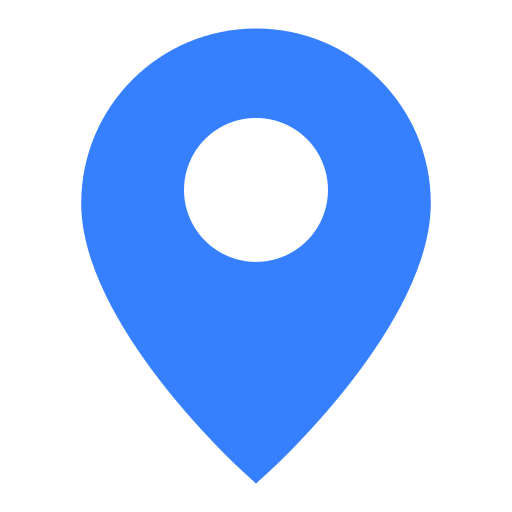
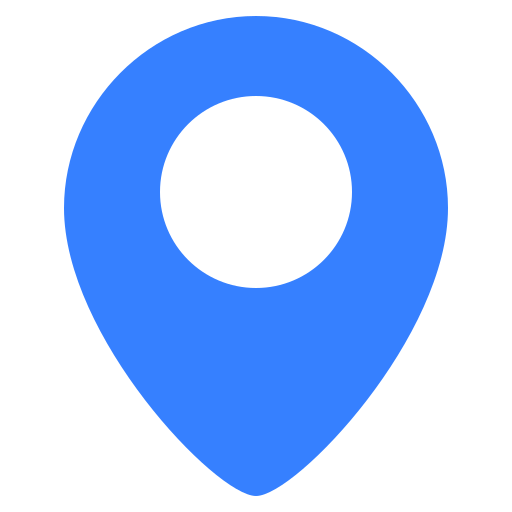
1. used consistent marker design with varying color. 2. additional color if additional chart. 3. NRT chart color and map marker made same.

Changed region(s): [[0.125, 0.0312, 0.875, 0.9688], [0.3125, 0.1875, 0.6875, 0.5625]]

diff --git a/noaa-cpfp-point/src/chart/helper/index.js b/noaa-cpfp-point/src/chart/helper/index.js
@@ -42,6 +42,16 @@ const chartStyles = [
         hoverBorderWidth: 3,
         spanGaps: true,
         showLine: true,
+    },
+    {
+        type: "line",
+        borderColor: "purple",
+        pointHoverBackgroundColor: "rgba(226, 118, 255, 0.8)", // purple
+        pointHoverBorderColor: "rgba(226, 118, 255, 1)",
+        borderWidth: 2,
+        hoverBorderWidth: 3,
+        spanGaps: true,
+        showLine: true,
     }
 ]
 

diff --git a/noaa-cpfp-point/src/marker/meta.js b/noaa-cpfp-point/src/marker/meta.js
@@ -44,7 +44,7 @@ export const legendsDictionary = {
     },
     [NRT]: {
         color: "red",
-        className: "marker marker-red",
+        className: "marker marker-unique",
         text: "NRT (Near Real Time) Measurements"
     },
 };

diff --git a/noaa-cpfp-point/style.css b/noaa-cpfp-point/style.css
@@ -126,6 +126,10 @@ body {
     background-image: url('./public/marker-purple.png');
 }
 
+.marker-unique {
+    background-image: url('./public/marker-unique.png');
+}
+
 #logo {
     position: absolute;
     right: 10px;
